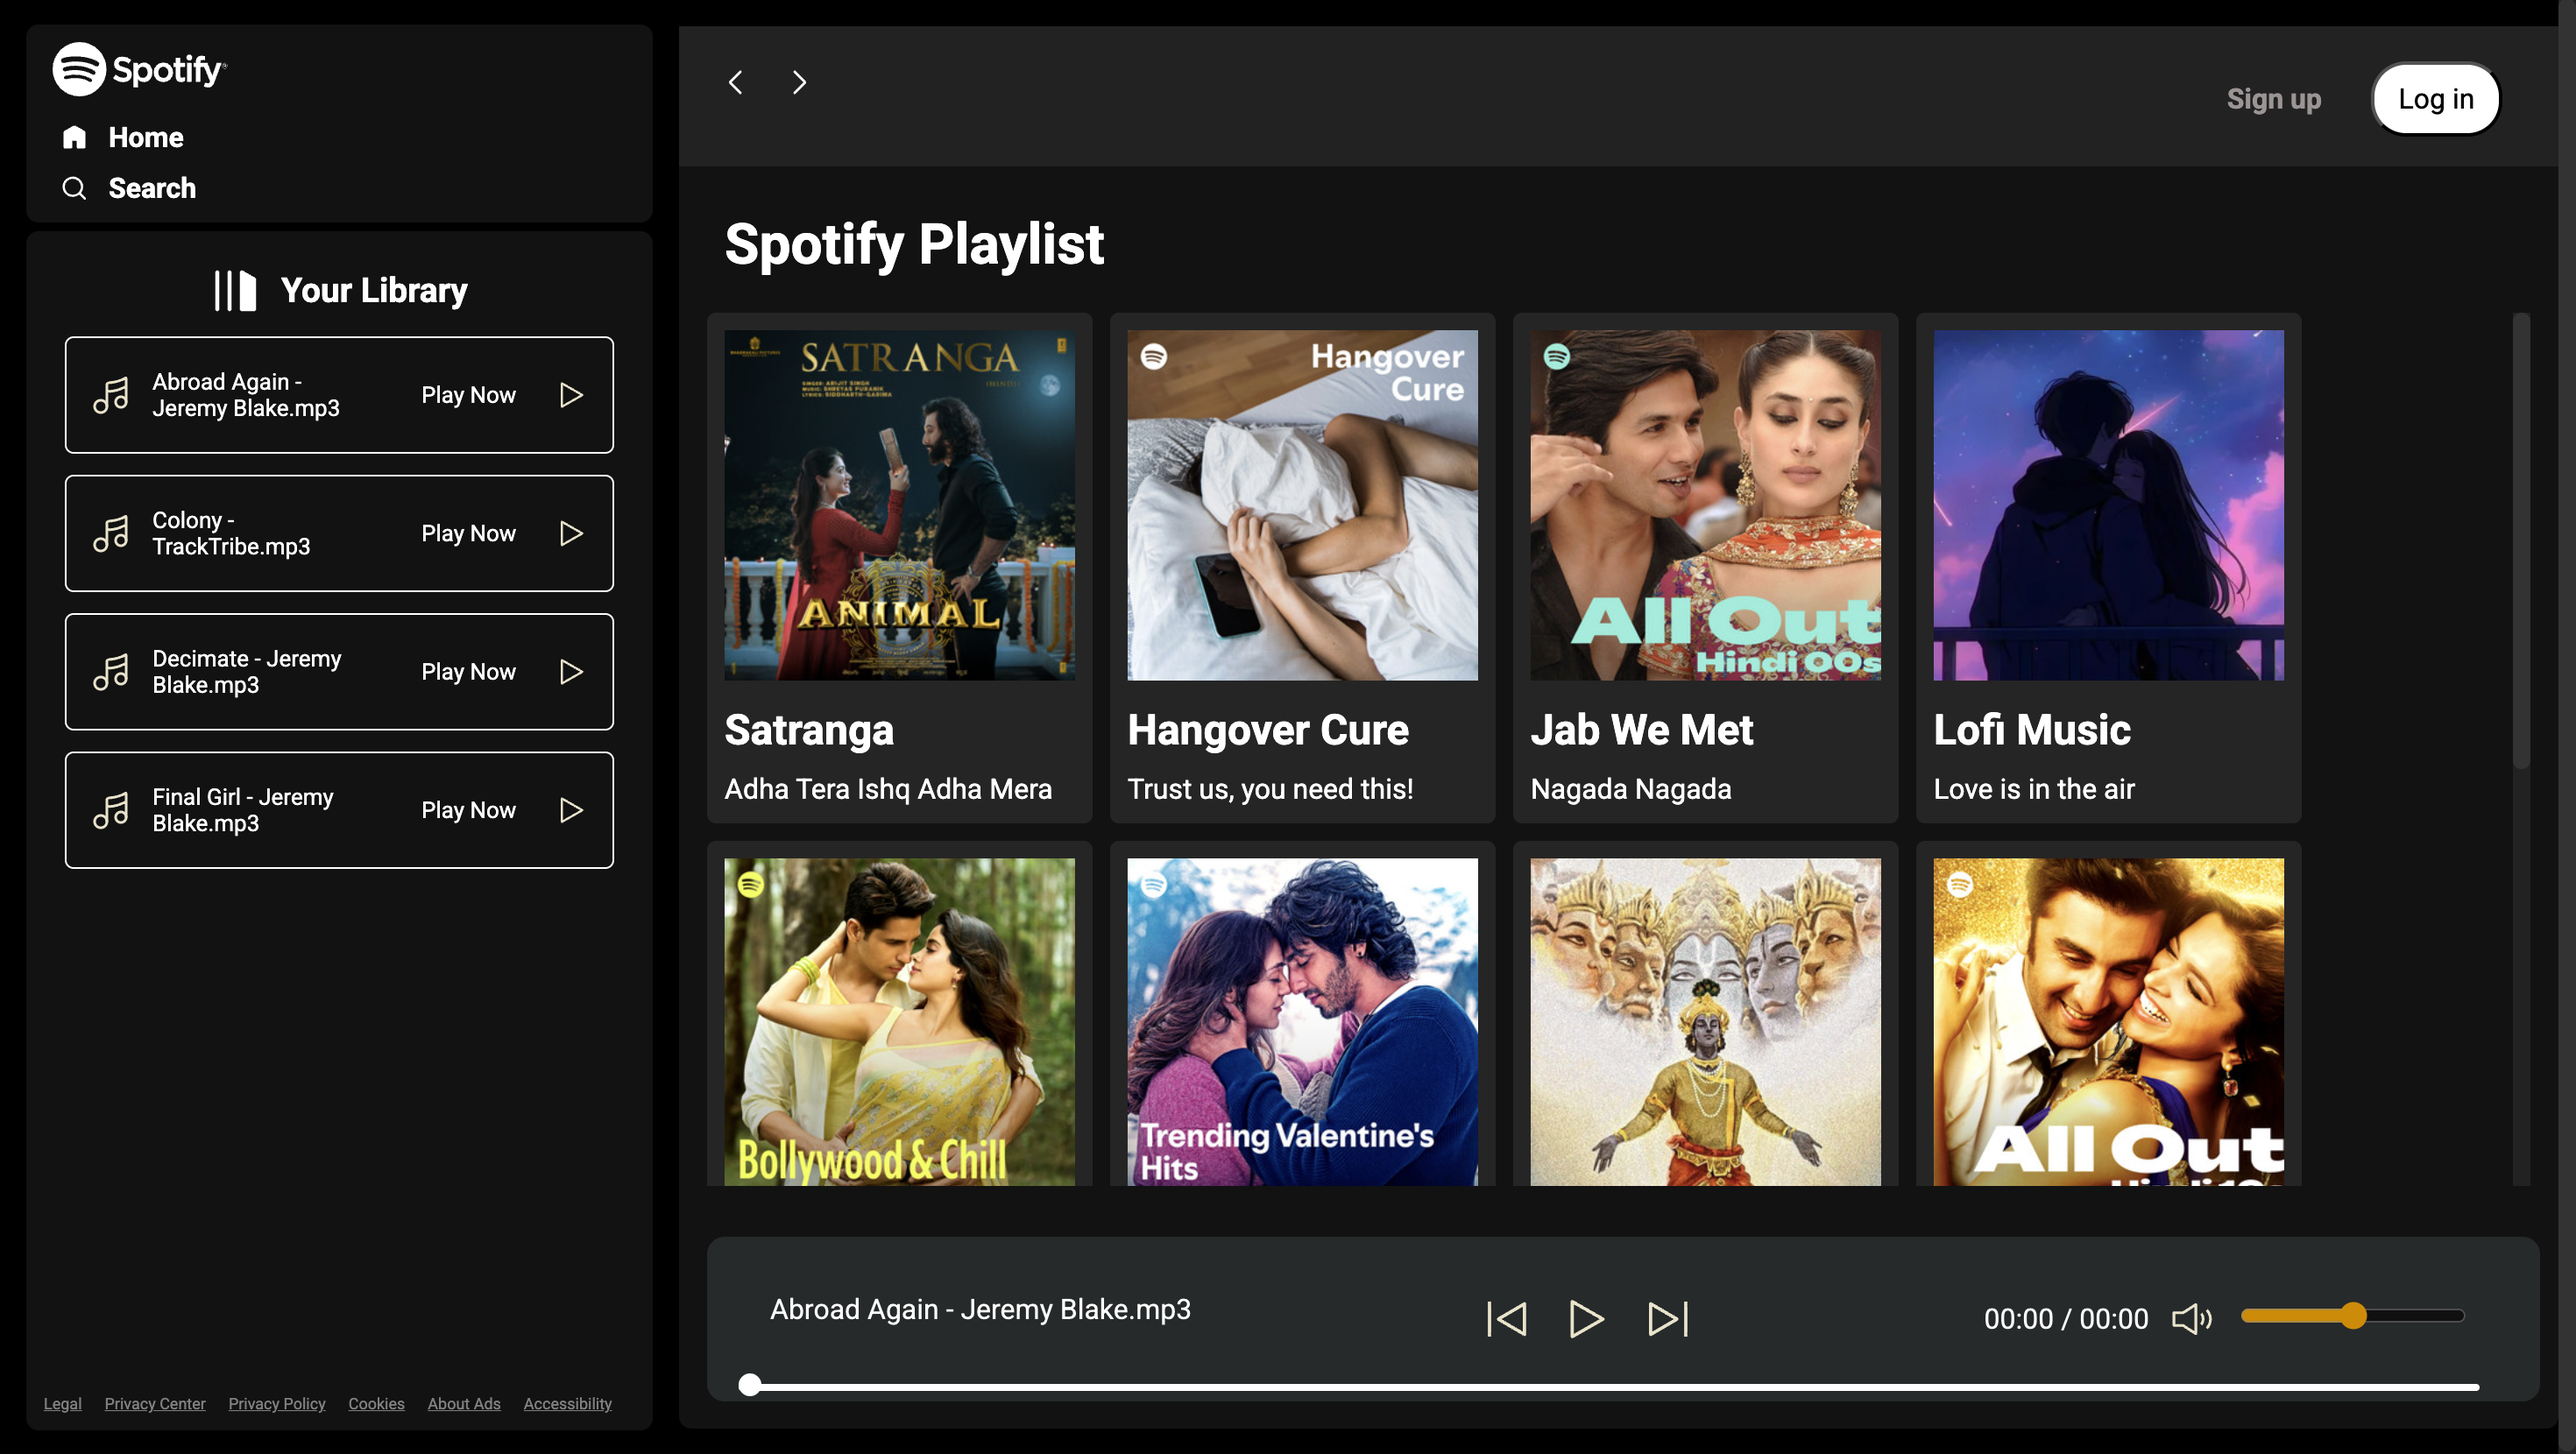
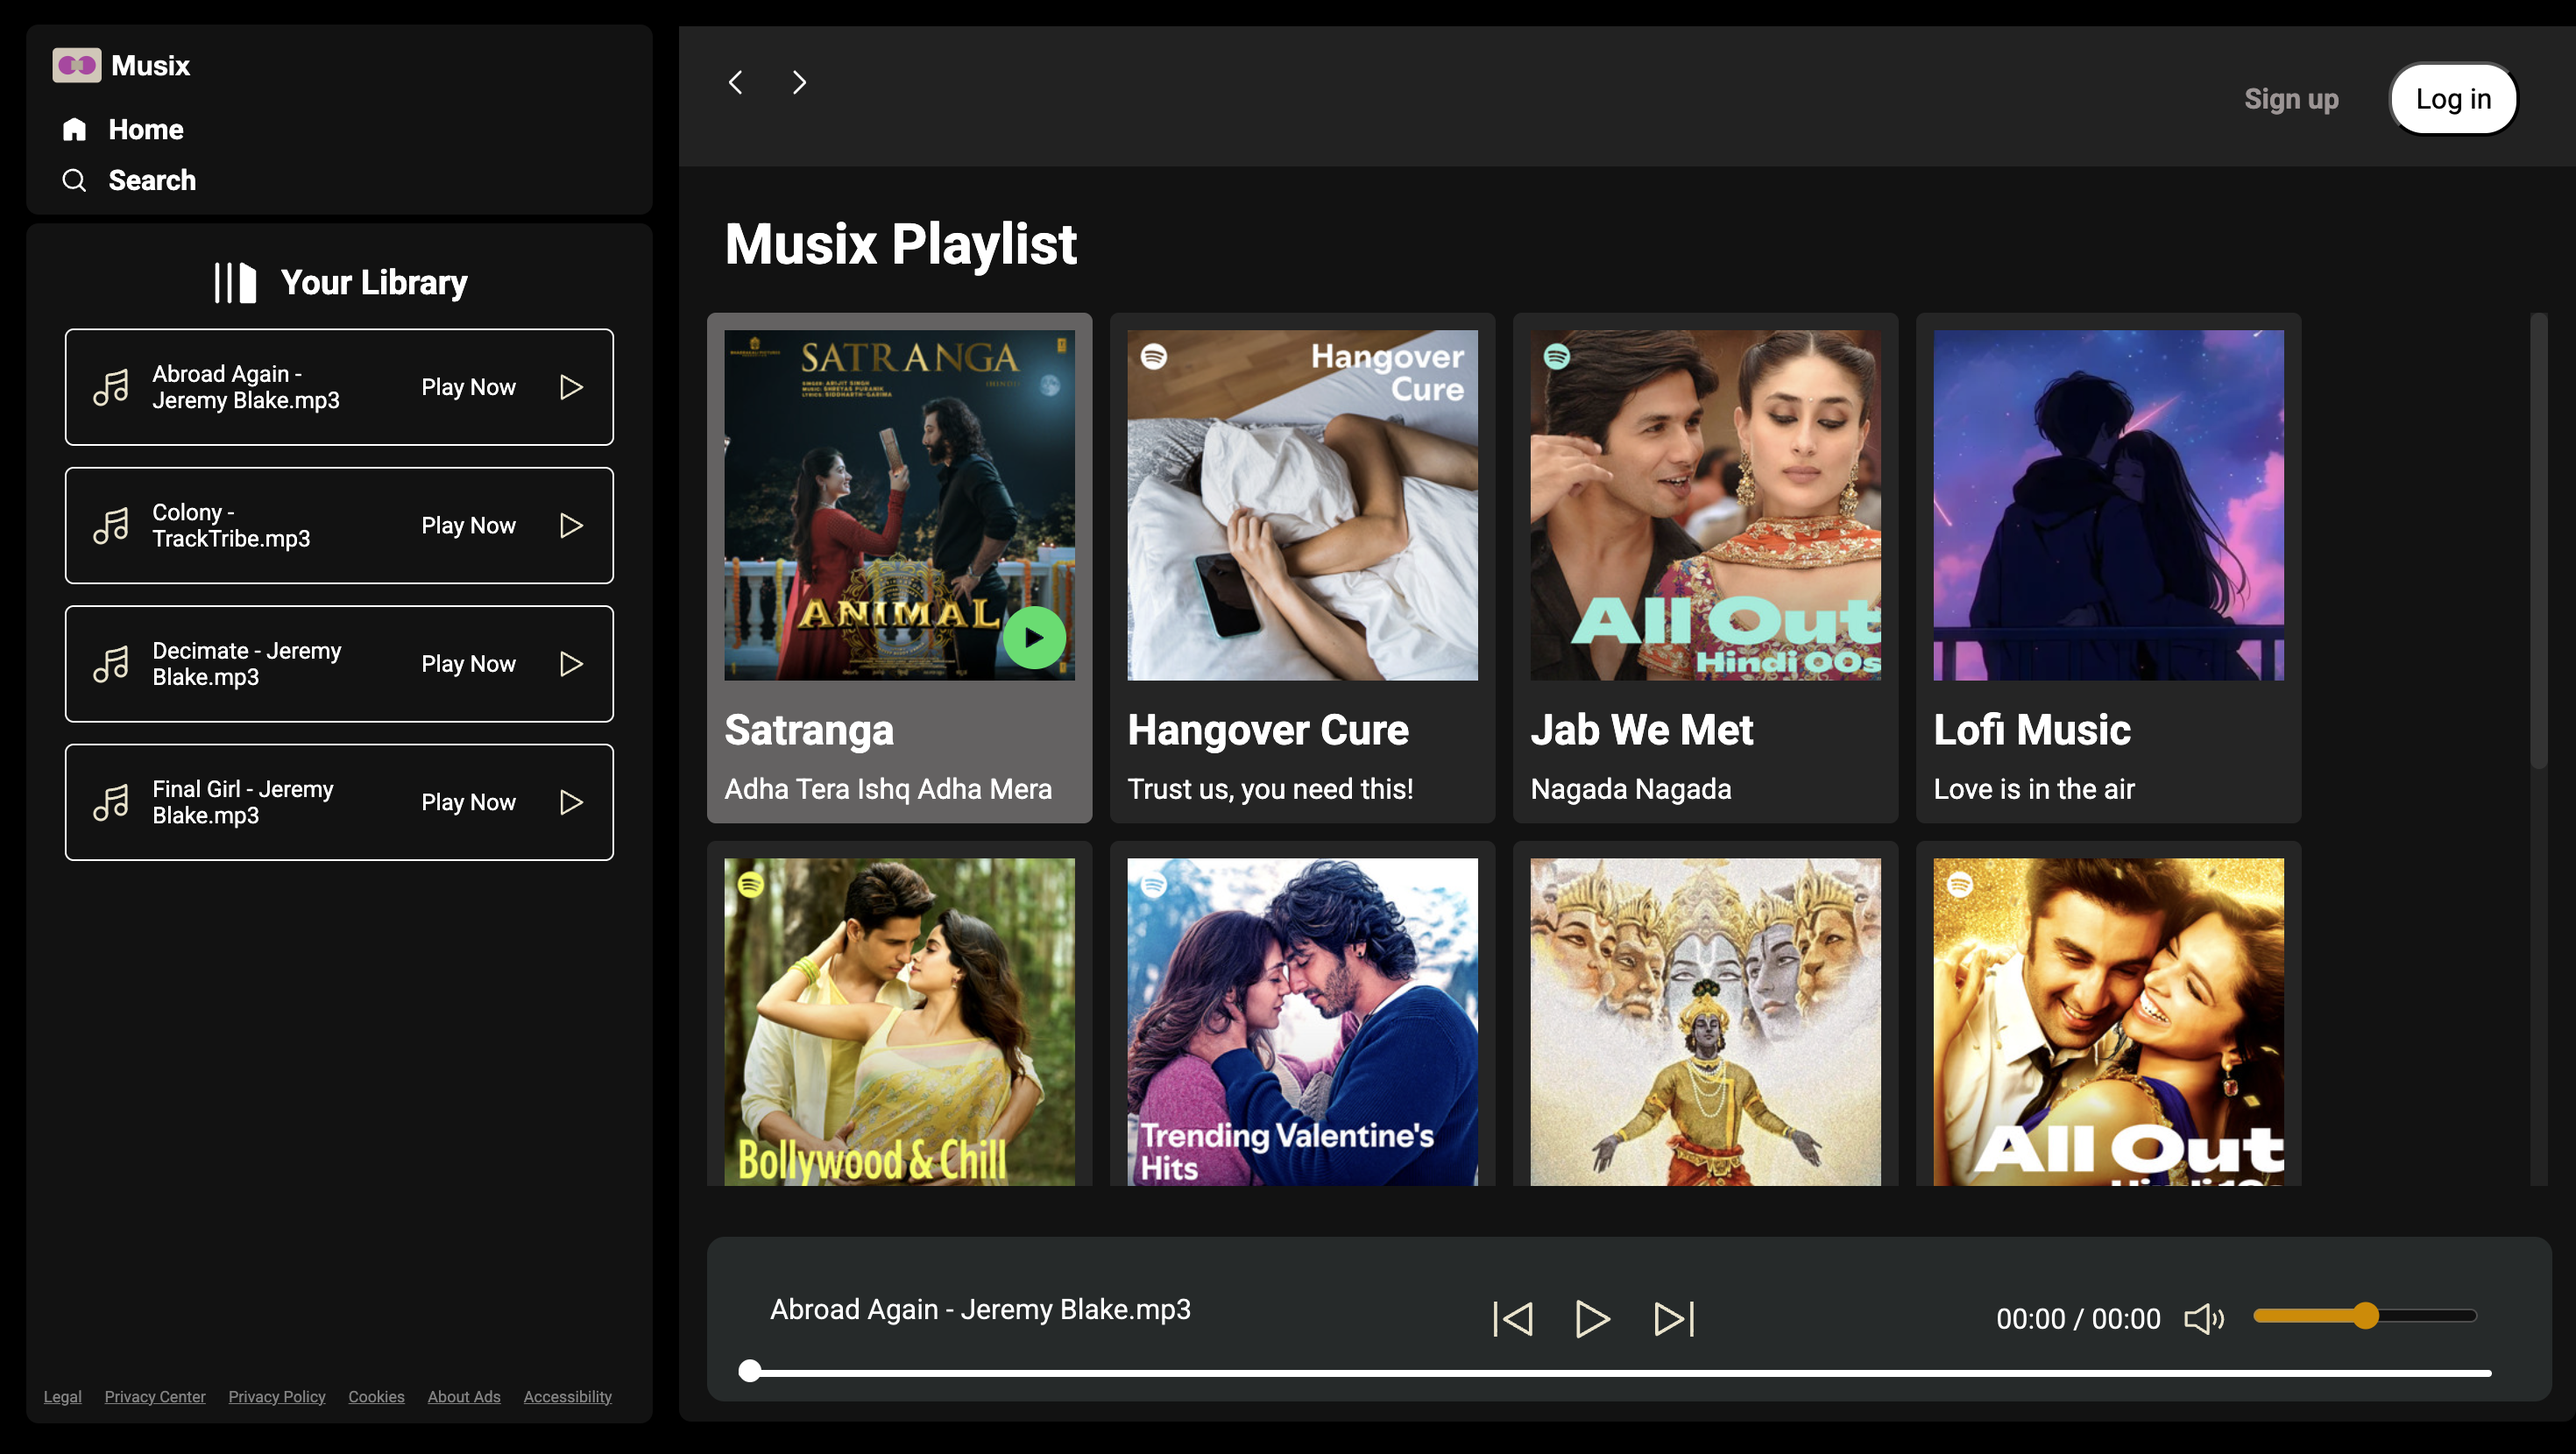
changes

diff --git a/index.html b/index.html
@@ -6,7 +6,7 @@
     <meta name="viewport" content="width=device-width, initial-scale=1.0">
     <link rel="stylesheet" href="css/style.css">
     <link rel="stylesheet" href="css/utility.css">
-    <title>Spotify - Web Player: Music for everyone</title>
+    <title>Musix Player: Music for everyone</title>
 </head>
 
 <body>
@@ -33,13 +33,13 @@
                     </ul>
                 </div>
                 <div class="footer">
-                    <div><a href="https://www.spotify.com/jp/legal/"><span>Legal</span></a></div>
-                    <div><a href="https://www.spotify.com/jp/privacy/"><span>Privacy Center</span></a></div>
-                    <div><a href="https://www.spotify.com/jp/legal/privacy-policy/"><span>Privacy Policy</span></a>
+                    <div><a href="/legal/"><span>Legal</span></a></div>
+                    <div><a href="/privacy/"><span>Privacy Center</span></a></div>
+                    <div><a href="/privacy-policy/"><span>Privacy Policy</span></a>
                     </div>
-                    <div><a href="https://www.spotify.com/jp/legal/cookies-policy/"><span>Cookies</span></a></div>
-                    <div><a href="https://www.spotify.com/jp/legal/privacy-policy/#s3"><span>About Ads</span></a></div>
-                    <div><a href="https://www.spotify.com/jp/accessibility/"><span>Accessibility</span></a></div>
+                    <div><a href="/cookies-policy/"><span>Cookies</span></a></div>
+                    <div><a href="/privacy-policy/#s3"><span>About Ads</span></a></div>
+                    <div><a href="/accessibility/"><span>Accessibility</span></a></div>
                 </div>
             </div>
 
@@ -60,8 +60,8 @@
                     <button class= "loginbtn">Log in</button>
                 </div>
             </div>
-            <div class="spotify-playlist">
-                <h1>Spotify Playlist</h1>
+            <div class="music-playlist">
+                <h1>Musix Playlist</h1>
                 <div class="cardcontainer">
                     <!-- <div data-folder="cs" class="card">
                         <div class="play">

diff --git a/js/script.js b/js/script.js
@@ -19,7 +19,7 @@ function secondsToMinutesSeconds(seconds) {
 
 async function getSongs(folder) {
     currFolder = folder;
-    let a = await fetch(`http://127.0.0.1:3002/${folder}/`) //Change localhost accordingly
+    let a = await fetch(`http://127.0.0.1:3000/${folder}/`) //Change localhost accordingly
     let response = await a.text();
     // console.log(response);
 
@@ -72,7 +72,7 @@ const playmusic = (track, pause = false) => {
 
 }
 async function displayAlbums(){
-    let a = await fetch(`http://127.0.0.1:3002/songs/`) //Change localhost accordingly
+    let a = await fetch(`http://127.0.0.1:3000/songs/`) //Change localhost accordingly
     let response = await a.text();
     let div = document.createElement("div");
     div.innerHTML = response;

diff --git a/css/style.css b/css/style.css
@@ -77,10 +77,10 @@ body {
 .header > *{
     padding: 20px;
 }
-.spotify-playlist{
+.music-playlist{
     padding: 16px;
 }
-.spotify-playlist h1{
+.music-playlist h1{
     padding: 10px;
 }
 .cardcontainer{
@@ -345,7 +345,7 @@ body {
     .buttons >*{
         margin: 0 6px;
     }
-    .spotify-playlist h1{
+    .music-playlist h1{
     padding: 4px;
     }
     .library{
